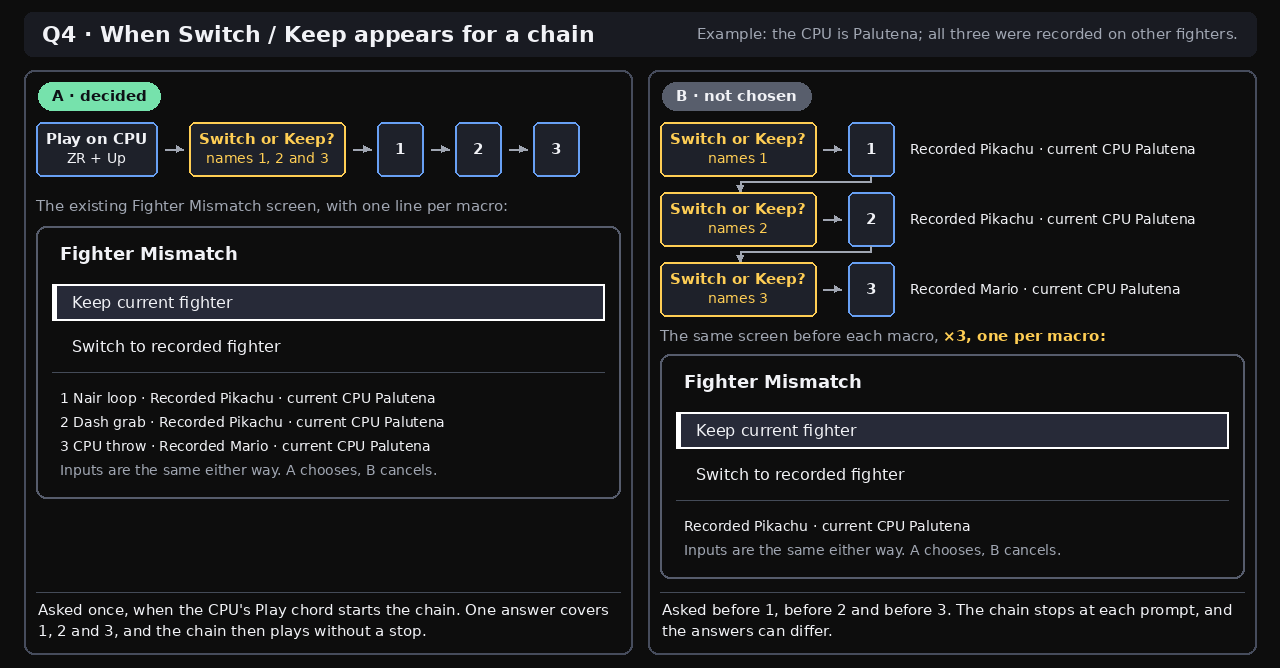
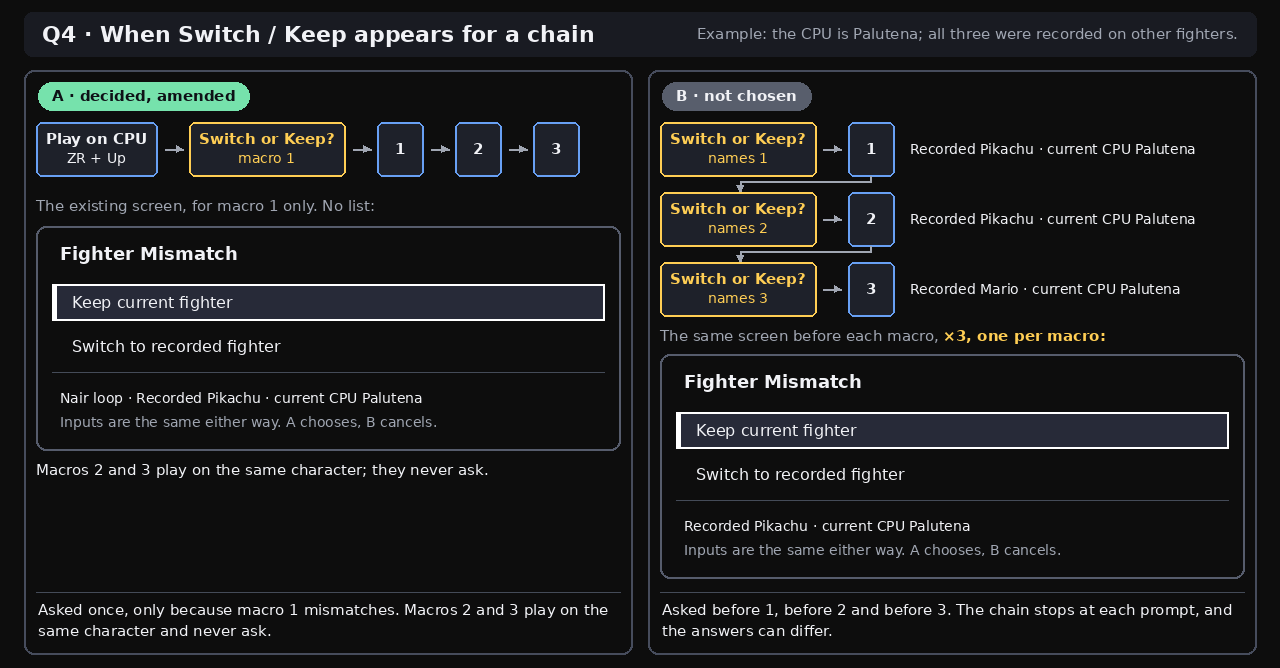
DECISIONS: RECORDING-REDESIGN revision 8.2, the operator's answers: a different move drops, R empties, Switch for macro 1 only, auto-load warps

diff --git a/tools/render_recording_redesign.py b/tools/render_recording_redesign.py
@@ -2076,7 +2076,7 @@ WIDE = 1920
 STACK_CROP = (128, 72, 1153, 649)      # the stacked pop-up's window (POP), its outline included
 
 
-def q_canvas(n, width, content_h, cap_a, cap_b, pad=None, note=None):
+def q_canvas(n, width, content_h, cap_a, cap_b, pad=None, note=None, label_a="A · decided"):
     """The title bar 'QN · question' (and an example line on its right, when given), then two panels: A · decided
     (green chip) and B · not chosen (grey chip). Each panel ends in its caption. Returns the image and the two
     content boxes."""
@@ -2097,7 +2097,7 @@ def q_canvas(n, width, content_h, cap_a, cap_b, pad=None, note=None):
     if note:
         iv.text(d, (width - margin - 18, 34), note, fnt(15), fill=ch.M_GROUP, anchor="rm")
     boxes = []
-    for i, (label, rec) in enumerate((("A · decided", True), ("B · not chosen", False))):
+    for i, (label, rec) in enumerate(((label_a, True), ("B · not chosen", False))):
         x = margin + i * (pw + gap)
         d.rounded_rectangle((x, top, x + pw, top + ph), radius=10, fill=WIN, outline=EDGE52, width=2)
         f = fnt(15, bold=True)
@@ -2384,14 +2384,15 @@ def mismatch_prompt(img, box, info, footer, chosen=0, inset=24):
 
 
 def q4():
-    # Revision 8: the chain is the CPU's active macro and the CPU is Palutena, so all three macros mismatch. The
-    # prompt appears when the CPU's Play chord starts the chain.
+    # Revision 8.2: one prompt, only because macro 1 mismatches. Macros 2 and 3 never ask. B stays the rejected
+    # per-macro prompts.
     img, (a, b) = q_canvas(4, W, 456,
-                           "Asked once, when the CPU's Play chord starts the chain. One answer covers 1, 2 and 3, and "
-                           "the chain then plays without a stop.",
+                           "Asked once, only because macro 1 mismatches. Macros 2 and 3 play on the same character and "
+                           "never ask.",
                            "Asked before 1, before 2 and before 3. The chain stops at each prompt, and the answers can "
                            "differ.",
-                           pad=12, note="Example: the CPU is Palutena; all three were recorded on other fighters.")
+                           pad=12, note="Example: the CPU is Palutena; all three were recorded on other fighters.",
+                           label_a="A · decided, amended")
     ask = lambda s: ("Switch or Keep?\n" + s, "save", "ask")
     arr = ("", "arrow", "")
     num = lambda n: (str(n), "macro", "")
@@ -2399,15 +2400,16 @@ def q4():
     footer = "Inputs are the same either way. A chooses, B cancels."
     lines = ["Recorded Pikachu · current CPU Palutena", "Recorded Pikachu · current CPU Palutena",
              "Recorded Mario · current CPU Palutena"]
-    names = ["Nair loop", "Dash grab", "CPU throw"]
     x0, y0, x1, _ = a
-    seq52(img, x0, y0, [("Play on CPU\nZR + Up", "macro", ""), arr, ask("names 1, 2 and 3"), arr, num(1), arr,
+    seq52(img, x0, y0, [("Play on CPU\nZR + Up", "macro", ""), arr, ask("macro 1"), arr, num(1), arr,
                         num(2), arr, num(3)], **sq)
     d = ImageDraw.Draw(img)
-    iv.text(d, (x0, y0 + 84), "The existing Fighter Mismatch screen, with one line per macro:", fnt(15),
+    iv.text(d, (x0, y0 + 84), "The existing screen, for macro 1 only. No list:", fnt(15),
             fill=ch.M_GROUP, anchor="lm")
-    mismatch_prompt(img, (x0, y0 + 104, x1, y0 + 376),
-                    ["%d %s · %s" % (i + 1, names[i], lines[i]) for i in range(3)], [footer])
+    mismatch_prompt(img, (x0, y0 + 104, x1, y0 + 328),
+                    ["Nair loop · Recorded Pikachu · current CPU Palutena"], [footer])
+    iv.text(d, (x0, y0 + 348), "Macros 2 and 3 play on the same character; they never ask.", fnt(15),
+            fill=ch.M_TEXT, anchor="lm")
     # B: a prompt before each macro, each with its own line; then the one screen, drawn once.
     x0, y0, x1, _ = b
     step = 70

diff --git a/docs/decisions/RECORDING-REDESIGN.md b/docs/decisions/RECORDING-REDESIGN.md
@@ -1,4 +1,4 @@
-# Recording redesign — revision 8.1
+# Recording redesign — revision 8.2
 
 Revision 7 records the operator's answers to every question (2026-11-06): pins are dropped, the hot five are the most recently used, and Q8 drills combos without requiring them to be true. This is the implementation spec.
 
@@ -10,6 +10,8 @@ Revision 8 applies the operator's answers of 2026-11-06. A save state only warps
 
 Revision 8.1 calls a connection between files a connection. The combo helper still says link for its hits, and the combo's panel lists each one with its two moves and whether it was recorded TRUE. The operator signed off: "yes have grok do both and then we are green to implement".
 
+Revision 8.2 records the operator's answers to the implementation questions. A different move does not count. R removes the last number, so a chain or a sequence may be empty. Switch / Keep for a chain is asked only for macro 1. Auto-load on death only warps to the bound save. The operator: "1. No. 2. agreed. 3. this should only apply to the first macro. if it's the second macro then it just keeps the same character. 4. agreed".
+
 Phase 1 screens. Nothing here is built. The pop-up sits on a real Training frame, `artifacts/phase23/overlay-investigation/frames/fix-tr-training.png` (Steve and Villager on Battlefield). The menu pictures are redrawn on the real rc.1 Recording page (`eden-runs/tr-p23-docs-capture-03`). Names and lengths are examples, and every picture uses the same example files. The first picture shows them.
 
 Every question is decided, and the pictures use the decided answers. Each question keeps its A | B picture next to the picture it concerns, for the record.
@@ -18,10 +20,10 @@ Every question is decided, and the pictures use the decided answers. Each questi
 
 | Q | Question | Answer | See |
 | --- | --- | --- | --- |
-| 1 | How you number a chain or a sequence | A: name tiles; A gives the next number, R takes it off, as in Character Cycles | [Q1](#q1-how-you-number-a-chain-or-a-sequence-decided-a) |
+| 1 | How you number a chain or a sequence | A: name tiles; A gives the next number, R takes it off, including the last, so the list may be empty | [Q1](#q1-how-you-number-a-chain-or-a-sequence-decided-a) |
 | 2 | Which role plays a chain | Decided: the role it is set active for, with that role's Play chord | [Q2](#q2-which-role-plays-a-chain-decided) |
 | 3 | What loop does with a chain | A: the whole chain repeats as one unit, and no pass warps back | [Q3](#q3-what-loop-does-with-a-chain-decided-a) |
-| 4 | When Switch / Keep appears for a chain | A: once, when its Play chord starts the chain, for every mismatched macro | [Q4](#q4-when-switch-keep-appears-for-a-chain-decided-a) |
+| 4 | When Switch / Keep appears for a chain | A, amended: once, when its Play chord starts the chain, and only for macro 1 | [Q4](#q4-when-switch-keep-appears-for-a-chain-decided-a) |
 | 5 | How the two lists sit in the Combos & Sequences tab | A: sequences on top, combos below, each with its own scroll | [Q5](#q5-how-the-two-lists-sit-in-the-combos-sequences-tab-decided-a) |
 | 6 | Hot sequences | A: five hot, the most recently used first | [Q6](#q6-hot-sequences-decided-a) |
 | 7 | What the sequence file stores | A: a reference to each combo file, in order | [Q7](#q7-what-the-sequence-file-stores-decided-a) |
@@ -59,7 +61,7 @@ Every connection is a file id, so renaming either end keeps it.
 - **White border and bar: the cursor.** A acts on this row. It is a different mark from the green fill, so the two never look alike.
 - **Thin green outline: the hot set.** At most five per kind: the five most recently used, the most recent first. Used means selected (bound or set active), played, drilled or recorded.
 - **Under the hairline, dimmer:** the rest of the library, on the card.
-- **Red number, at the row's left edge:** its place in the chain or the sequence under the cursor, the badge Character Cycles uses. With the cursor on a macro, every chain that plays it wears the macro's number. It never sits next to the chain mark or the floppy chip. In the picker, A adds the next number. R removes one, and the later numbers close up; A on a tile that already has a number does nothing.
+- **Red number, at the row's left edge:** its place in the chain or the sequence under the cursor, the badge Character Cycles uses. With the cursor on a macro, every chain that plays it wears the macro's number. It never sits next to the chain mark or the floppy chip. In the picker, A adds the next number. R removes one, including the last, and the later numbers close up; A on a tile that already has a number does nothing. A chain or a sequence may be empty. An empty chain plays nothing, and an empty sequence drills nothing, with no new sentence.
 - **Chain mark and count:** a chain, and how many macros it plays. Only a MACROS row has it.
 - **Orange floppy chip: the save state this macro starts at.** It is Material Symbols `save`. It sits before the start save's name on a macro or chain row, on a save row's "start save" tag, on the Start save row of a macro's and a chain's own screen, and in the Connections panel's "starts from" line. It is grey when the Start save switch is Off. The same orange floppy marks the SAVE STATES section header; the other headers keep their square.
 - **Gold outline** in the step-by-step strips only: a mockup mark for "new". It is not part of the product.
@@ -182,17 +184,17 @@ Operator, 2026-11-06.
 
 ![Switch or Keep](RECORDING-REDESIGN-r5-switch-keep.png)
 
-*The existing Fighter Mismatch screen. This frame is Steve and Villager, so the prompt names Villager, the CPU on screen. The operator's example is the same screen for a Pikachu macro practised on Palutena. Asked once for the whole chain. Nothing is hidden or refused.*
+*The existing Fighter Mismatch screen. This frame is Steve and Villager, so the prompt names Villager, the CPU on screen. The operator's example is the same screen for a Pikachu macro practised on Palutena. Asked once, for the chain's first macro. Nothing is hidden or refused.*
 
 ### Q4 · When Switch / Keep appears for a chain — decided: A
 
-One Fighter Mismatch prompt appears once, before the chain starts, when its role's Play chord starts it. Load never starts a chain, so Load never asks. The prompt lists every macro recorded on a different fighter, and your answer (Switch or Keep) covers the whole chain, so playback is never interrupted. Keep plays the inputs on the fighter you have now.
+One Fighter Mismatch prompt appears once, before the chain starts, when its role's Play chord starts it, and only if macro 1 was recorded on a different fighter. It is the existing single-macro prompt. Switch changes to macro 1's recorded fighter. Load never starts a chain, so Load never asks. Macros 2, 3 and later never ask and never switch. They play on the same character. The chain's prompt has no list of macros and no new text. Keep plays the inputs on the fighter you have now.
 
-Operator, 2026-11-06.
+Operator, 2026-11-06. Amended the same day. The primary asked: "Switch / Keep when a chain mixes fighters. The prompt has a single "Switch to recorded fighter" button. Which fighter should Switch pick?" The operator: "this should only apply to the first macro. if it's the second macro then it just keeps the same character".
 
-Option A's list of macros, one line each, is the only new text in the prompt. The picture's example: the CPU's Play chord (ZR + Up) starts the chain, the CPU is Palutena, and all three macros were recorded on other fighters.
+The picture's example: the CPU's Play chord (ZR + Up) starts the chain, the CPU is Palutena, and macro 1, Nair loop, was recorded on Pikachu. Macros 2 and 3 play on the same character; they never ask.
 
-![Q4, A (decided) and B (not chosen)](RECORDING-REDESIGN-q4-ab.png)
+![Q4, A (decided, amended) and B (not chosen)](RECORDING-REDESIGN-q4-ab.png)
 
 ### Pop-up buttons
 
@@ -271,13 +273,15 @@ Each strip is three steps in the menu's own style. The panels are drawn at full 
 
 ![Flow: make a chain](RECORDING-REDESIGN-r8-flow-chain.png)
 
-*Recording › Save states & Macros: + New chain is the last row under MACROS, as + New sequence is under SEQUENCES. The picker numbers Nair loop, Dash grab and CPU throw with the same buttons as Character Cycles: A adds the next number, R removes one, and B is done; the Switch keyboard then names it. The new row, Corner pressure (gold: new), shows the chain mark with 3 and the floppy chip with Nair loop · start, its macro 1's start save. Its Connections panel lists 1 → 2 → 3. Once it is set active for the CPU, on its own screen or with A in the pop-up's CPU view, the CPU's Play chord plays it.*
+*Recording › Save states & Macros: + New chain is the last row under MACROS, as + New sequence is under SEQUENCES. The picker numbers Nair loop, Dash grab and CPU throw with the same buttons as Character Cycles, except that R also removes the last number: A adds the next number, R removes one, and B is done; the Switch keyboard then names it. The new row, Corner pressure (gold: new), shows the chain mark with 3 and the floppy chip with Nair loop · start, its macro 1's start save. Its Connections panel lists 1 → 2 → 3. Once it is set active for the CPU, on its own screen or with A in the pop-up's CPU view, the CPU's Play chord plays it.*
 
 ### Q1 · How you number a chain or a sequence — decided: A
 
 Every recording in the library is a tile. A chain is not one ([Q13](#q13-can-a-chain-contain-a-chain-decided-a)). A on a tile gives it the next number. R takes a tile's number off, and the later numbers close up. A on a tile that already has a number does nothing, and B is done. It is exactly how Character Cycles orders fighters, so there is nothing new to learn. To change the order, take numbers off and put them back. The same picker numbers a sequence's combos.
 
 Operator, 2026-11-06. Amended the same day, so that R removes, as in Character Cycles: "when it's ambiguous I would keep it consistent. We want to minimize the number of chords and have context determine what they do. So in this case I would have R supercede A if that's more intuitive".
+
+Amended again in revision 8.2. R also removes the last number, so a chain or a sequence may be empty. The picker is Character Cycles' picker, except that it allows an empty list. An empty chain plays nothing, and an empty sequence drills nothing, with no new sentence. The primary asked: "R on the last number in the picker. Character Cycles won't let you remove its last fighter, because a cycle can't be empty. A chain or sequence can be empty (nothing plays), so I'd let R remove the last number too." The operator: "2. agreed".
 
 ![Q1, A (decided) and B (not chosen)](RECORDING-REDESIGN-q1-ab.png)
 
@@ -327,11 +331,11 @@ Operator, 2026-11-06.
 
 The bar is the combo helper's bar with a sequence header and a row for the sequence's combos. TRUE, the current link, and the links still to come use the helper's own marks. Streak and best count only a finished sequence. A drop restarts the sequence at combo 1, with the streak back to 0 and best kept; the Q8 picture shows it.
 
-**Grading, decided ([Q8](#q8-a-drop-and-what-completes-the-sequence-decided)); this changes the existing combo helper.** Today a combo attempt is clean only when every link is TRUE, every press is there, and every press is within the tolerance (`src/model/combo.rs`: `Grade::clean`, `Reason`). Clean no longer needs TRUE, for a combo drilled alone and for a sequence. A step counts when its recorded presses are there, with the same direction, in order and within the tolerance. A step drops on a missing press, a press outside the tolerance, or the exchange ending before the step. The exchange ends 20 frames after the CPU can act again, or on a shielded hit, so the CPU may act in a gap for up to 20 frames and a longer gap is a drop. TRUE stays on the bar as information.
+**Grading, decided ([Q8](#q8-a-drop-and-what-completes-the-sequence-decided)); this changes the existing combo helper.** Today a combo attempt is clean only when every link is TRUE, every press is there, and every press is within the tolerance (`src/model/combo.rs`: `Grade::clean`, `Reason`). Clean no longer needs TRUE, for a combo drilled alone and for a sequence. A step counts when its recorded presses are there, with the same direction, in order and within the tolerance, and the move that comes out is the recorded move. A step drops on a missing press, a press outside the tolerance, a different move, or the exchange ending before the step. The exchange ends 20 frames after the CPU can act again, or on a shielded hit, so the CPU may act in a gap for up to 20 frames and a longer gap is a drop. TRUE stays on the bar as information.
 
 ### Q8 · A drop, and what completes the sequence — decided
 
-A drop sends you back to combo 1 of the sequence, and the streak to 0; best is kept. Neither the sequence nor a combo has to be a true combo: the CPU may be able to act between the combos, or between two hits of one combo. This is for drilling things one after another. A step counts when you press its recorded buttons, with the same direction, in order and within the timing tolerance. A step drops on a missing press, a press outside the tolerance, or the exchange ending before the step. TRUE still shows on the bar, as information. It no longer decides whether a combo or a sequence counts. The exchange ends 20 frames after the CPU can act again, or on a shielded hit (the frame strip's `DROP_MAX`). So the CPU may act in a gap for up to 20 frames, and a longer gap is a drop. The primary asked: "Is that right? In particular: Should single combos also stop needing TRUE? Is a 20-frame allowance for the CPU acting the behaviour you want?" The operator: "that sounds right".
+A drop sends you back to combo 1 of the sequence, and the streak to 0; best is kept. Neither the sequence nor a combo has to be a true combo: the CPU may be able to act between the combos, or between two hits of one combo. This is for drilling things one after another. A step counts when you press its recorded buttons, with the same direction, in order and within the timing tolerance, and the move that comes out is the recorded move. A different move does not count, even when the presses match. A step drops on a missing press, a press outside the tolerance, a different move, or the exchange ending before the step. TRUE still shows on the bar, as information. It no longer decides whether a combo or a sequence counts. The exchange ends 20 frames after the CPU can act again, or on a shielded hit (the frame strip's `DROP_MAX`). So the CPU may act in a gap for up to 20 frames, and a longer gap is a drop. The primary asked: "Is that right? In particular: Should single combos also stop needing TRUE? Is a 20-frame allowance for the CPU acting the behaviour you want?" The operator: "that sounds right". The primary asked: "A different move with the same presses. Today the grader also fails a hit where the move came out different. Should that still count when the buttons, direction and timing are right?" The operator: "1. No."
 
 Operator, 2026-11-06.
 
@@ -353,7 +357,7 @@ Drilling one combo from a sequence's numbered rows uses that combo's own streak 
 - Two tabs under the role toggle: Save states & Macros, and Combos & Sequences. CPU has only the first. The two sections in a tab are stacked and scroll on their own. **Decided.**
 - The recorded fighter is information. The column reads Recorded on. Nothing filters, hides, greys, or refuses by fighter. A mismatch raises Switch / Keep, and Keep plays the inputs on the current fighter. A sequence may mix fighters. **Decided.**
 - Hot memory is one minute resident per hot macro (3,600 frames, 28.8 KiB). Five hot macros are 144 KiB. A longer file still plays; the rest is read in 600-frame windows. The file cap stays 36,000 frames. No recording is refused for length. **Decided.**
-- Loop counts are ∞, 1, 2, 3, 5, 10. X cycles them. The list is the Options row. The loop belongs to the role. **Decided.**
+- Loop counts are ∞, 1, 2, 3, 5, 10. X cycles them. The default is 1, and a loop that is On today becomes ∞. The list is the Options row. The loop belongs to the role. **Decided.**
 - Player 1 and the CPU may play at the same time. A chain does not use that: its macros play one after another. **Decided.**
 - Save states are named files that you bind for Save and Load. There is no slot number and no extra slot shortcut. **Decided.**
 - A chain is an ordered list of macros, numbered 1, 2, 3…, kept in its own file in MACROS. A macro's start save, started by the role's Play chord, replaces the old "play a recording because a state loaded" checklist. Operator, 2026-11-06.
@@ -381,7 +385,7 @@ Drilling one combo from a sequence's numbered rows uses that combo's own streak 
 - Pins are dropped. The hot five of each kind are the five most recently used, the most recent first. Used means selected (bound or set active), played, drilled or recorded. When a sixth is used, the least recently used leaves the outline and stays on the card under the hairline. Y is unused on these screens. Operator, 2026-11-06.
 - Q1, Q3, Q4, Q5, Q6, Q7, Q9, Q11, Q12 and Q13 are A; Q8 is the operator's own answer. Each block above says what it means. Operator, 2026-11-06.
 - When it is ambiguous, keep it consistent: few chords, with context deciding what they do. So the numbered picker (+ New chain, Edit chain, + New sequence, Edit combos) works as Character Cycles does: A gives the next number, R takes a number off and the later numbers close up, A on a numbered tile does nothing, and B is done. Inside the picker, R removes; the role toggle does not apply there, because the picker edits the file, whichever role it is active for. The operator: "when it's ambiguous I would keep it consistent. We want to minimize the number of chords and have context determine what they do. So in this case I would have R supercede A if that's more intuitive". Operator, 2026-11-06.
-- A combo or a sequence counts when its recorded presses are there, with the same direction, in order and within the tolerance. TRUE is shown as information and is no longer a condition, for a combo drilled alone and for a sequence. This changes the existing combo helper (`Grade::clean`). The exchange ends 20 frames after the CPU can act again, or on a shielded hit, so the CPU may act in a gap for up to 20 frames and a longer gap is a drop. Confirmed: 'that sounds right'. Operator, 2026-11-06.
+- A combo or a sequence counts when its recorded presses are there, with the same direction, in order and within the tolerance, and the move that comes out is the recorded move. A different move does not count, even when the presses match, and a different move is a drop. TRUE is shown as information and is no longer a condition, for a combo drilled alone and for a sequence. This changes the existing combo helper (`Grade::clean`). The exchange ends 20 frames after the CPU can act again, or on a shielded hit, so the CPU may act in a gap for up to 20 frames and a longer gap is a drop. Confirmed: 'that sounds right'. Operator, 2026-11-06. The primary asked: "A different move with the same presses. Today the grader also fails a hit where the move came out different. Should that still count when the buttons, direction and timing are right?" The operator: "1. No." Operator, 2026-11-06.
 - On the Recording page, A opens the file's own screen; on a save, Bind to Save / Load is that screen's first row. In the pop-up, A still binds, sets active, or drills. The page footers read "A open". The operator, on the primary's recommendations: "go with your recommendations and redraw them". Operator, 2026-11-06.
 - Make combo does not change the drill. The new combo joins the hot five at the top, because it was recorded, and the current drill stays the drill. "go with your recommendations and redraw them". Operator, 2026-11-06.
 - A macro's own screen, and a chain's, has one Set active row, for the role in view: "On · Player 1" (or "On · CPU" in the CPU view) or "Off". Left / Right turn it On or Off; On makes this file that role's active macro, replacing the one before, and that role's Play chord plays it. "go with your recommendations and redraw them". Operator, 2026-11-06.
@@ -390,6 +394,11 @@ Drilling one combo from a sequence's numbered rows uses that combo's own streak 
 - X cycles the loop on the Recording page too, when the cursor is in MACROS, as in the pop-up. The primary asked: "X on the Recording page: should X cycle the loop when the cursor is in MACROS, as it does in the pop-up?" The operator: "yes". Operator, 2026-11-06.
 - Connections between files are called connections. The combo helper still says link for its hits: L1, "N links", "link 1 of 4". The operator: "yes have grok do both and then we are green to implement". Operator, 2026-11-06.
 - The combo's Connections panel lists each link, its two moves, and whether it was recorded TRUE, for example "L1  aerial → aerial  TRUE". It reads the combo file's own `links`; nothing new is stored. The operator: "yes have grok do both and then we are green to implement". Operator, 2026-11-06.
+- A different move does not count, even when the presses match. A step counts when its recorded presses are there, with the same direction, in order and within the tolerance, and the move that comes out is the recorded move. A different move is a drop. TRUE is still not required. The primary asked: "A different move with the same presses. Today the grader also fails a hit where the move came out different. Should that still count when the buttons, direction and timing are right?" The operator: "1. No." Operator, 2026-11-06.
+- R removes the last number too, so a chain or a sequence may be empty. The picker is Character Cycles' picker, except that it allows an empty list. An empty chain plays nothing, and an empty sequence drills nothing, with no new sentence. The primary asked: "R on the last number in the picker. Character Cycles won't let you remove its last fighter, because a cycle can't be empty. A chain or sequence can be empty (nothing plays), so I'd let R remove the last number too." The operator: "2. agreed". Operator, 2026-11-06.
+- Switch / Keep for a chain is asked only for the chain's first macro. When a chain starts, the Fighter Mismatch prompt appears only if macro 1 was recorded on a different fighter. It is the existing single-macro prompt; Switch changes to macro 1's recorded fighter. Macros 2, 3 and later never ask and never switch. They play on the same character. The chain's prompt has no list of macros and no new text. The primary asked: "Switch / Keep when a chain mixes fighters. The prompt has a single "Switch to recorded fighter" button. Which fighter should Switch pick?" The operator: "this should only apply to the first macro. if it's the second macro then it just keeps the same character". Operator, 2026-11-06.
+- Auto-load on death only warps to the bound save. It does nothing when no save is bound. Mirroring, damage on load and buffs still apply to that warp. The primary asked: "Auto-load on death. Today it can start a recording. Since Load starts nothing, I'd make it only warp to the bound save, and do nothing if no save is bound." The operator: "4. agreed". Operator, 2026-11-06.
+- The primary recommended, and the operator did not object: migration skips empty slots, and the old slots' names use the date the migration runs; the loop's default is 1, and today's loop On becomes ∞; after the bound save is deleted, the next Save creates "Save N" and binds it; the current library selection (`macros/selected.txt`) becomes Player 1's active macro; a single combo's best stays as today. Primary's recommendation, 2026-11-06. No objection from the operator.
 
 ## Each file's screen, and the other rules
 
@@ -420,7 +429,7 @@ These screens and rules come from revision 3, updated to the decisions above.
 | --- | --- |
 | Start save | Its macro 1's start save, "Nair loop · start" ([Q12](#q12-where-a-chain-starts-decided-a)). To change it, reorder the chain or save over that file. The switch is On or Off, with Left and Right; On is the default. On: the Play chord warps there once, then plays 1, 2, 3; a loop never warps back. Off: the chain plays from where the fighters are. If macro 1 has no start save, the chain has none and no switch. |
 | Set active | On · <role> or Off, for the role in view, as on a macro's screen. On makes the chain that role's active macro, replacing the one before; that role's Play chord plays it. |
-| Edit chain | The numbered picker, as in Character Cycles: A gives the next number, R takes one off, B is done. It lists recordings only ([Q13](#q13-can-a-chain-contain-a-chain-decided-a)). |
+| Edit chain | The numbered picker, as in Character Cycles, except that R also removes the last number, so the chain may be empty: A gives the next number, R takes one off, B is done. An empty chain plays nothing, with no new sentence. It lists recordings only ([Q13](#q13-can-a-chain-contain-a-chain-decided-a)). |
 | Rename | Header "Name chain". A new chain that was never renamed is Chain N. Online, the keyboard stays closed. |
 | Make combo | Warp to the chain's start save, play the whole chain once on Player 1 while the frame strip records, and keep the links as a new combo. This file stays. |
 | Delete | Removes the chain file. Its macros stay. |
@@ -435,7 +444,7 @@ A chain has no Crop: it has no frames of its own. A deleted macro leaves a gap t
 
 | Row | What it does |
 | --- | --- |
-| Drill | This becomes the one drill, and a drilled sequence is cleared. An attempt counts when its recorded presses are there, in order and within the tolerance; TRUE is shown as information. |
+| Drill | This becomes the one drill, and a drilled sequence is cleared. An attempt counts when its recorded presses are there, in order and within the tolerance, and the move that comes out is the recorded move. A different move is a drop. TRUE is shown as information. A single combo's best stays as today. |
 | Made from | The macro it was made from, when there is one |
 | Rename | Header "Name combo". Empty OK on a new combo is Combo N. Online, the keyboard stays closed and the name is Combo N. |
 | Crop | First link and last link. A saves a new combo. This file stays. |
@@ -452,7 +461,7 @@ A chain has no Crop: it has no frames of its own. A deleted macro leaves a gap t
 | Bind to Save / Load | "On" or "Off": Left / Right turn it On or Off. On binds this save, and the one bound before is unbound; one save at a time, for both roles. The Save chord writes this file, and the Load chord warps here; Load starts nothing. The bound save is green in both views. |
 | Duplicate | A new save file, a copy of this one. This file stays bound. |
 | Rename | Header "Name save state". A new save that was never renamed is Save N. Online, the keyboard stays closed. |
-| Delete | Removes the file. If it was bound, Save and Load do nothing until another is bound. |
+| Delete | Removes the file. If it was bound, Load does nothing until a save is bound again. The next Save creates "Save N" and binds it. |
 
 The Save chord overwrites the bound file. If nothing is bound yet, Save creates a file named Save N, binds it, and puts it in the hot list. Saving over "Nair loop · start" moves that macro's remembered start, because that is the file the macro points at. It moves the chain Corner pressure's start too, because its macro 1 is Nair loop.
 
@@ -464,9 +473,9 @@ The Save chord overwrites the bound file. If nothing is bound yet, Save creates 
 
 | Row | What it does |
 | --- | --- |
-| Drill sequence | This becomes the one drill. The helper grades the whole sequence: each combo's presses, in order and within the tolerance; TRUE is not required. |
+| Drill sequence | This becomes the one drill. The helper grades the whole sequence: each combo's presses, in order and within the tolerance, and the move that comes out is the recorded move. A different move is a drop. TRUE is not required. |
 | 1, 2… | A drills that combo alone. The sequence file stays. |
-| Edit combos | The numbered picker: A gives the next number, R takes one off |
+| Edit combos | The numbered picker: A gives the next number, R takes one off, including the last, so the sequence may be empty |
 | Rename | Header "Name sequence". A new one that was never renamed is Sequence N. Online, the keyboard stays closed. |
 | Delete | Removes the sequence file. The combo files stay. |
 
@@ -525,12 +534,13 @@ Menu shortcut 1 stays Minus. Open menu stays B + Up. Both Play chords may be on 
 
 ### A chain, on its Play chord
 
-A role's Play chord starts that role's active macro. When it is a chain, the chord warps to the chain's start save once, when its Start save switch is On ([Q12](#q12-where-a-chain-starts-decided-a)). The role then plays the chain's macros in order, from where the fighters are ([Q2](#q2-which-role-plays-a-chain-decided)). The macros' own start saves are not used, whatever their switches say. With a loop count, the chain repeats as one unit, 1, 2, 3, then 1, and no pass warps back ([Q3](#q3-what-loop-does-with-a-chain-decided-a)). A macro recorded on a different fighter raises Switch / Keep, asked once when the chord starts the chain ([Q4](#q4-when-switch-keep-appears-for-a-chain-decided-a)). Keep plays the inputs on the current fighter. The chain file stores its macros' ids in order, and lists recordings only ([Q13](#q13-can-a-chain-contain-a-chain-decided-a)).
+A role's Play chord starts that role's active macro. When it is a chain, the chord warps to the chain's start save once, when its Start save switch is On ([Q12](#q12-where-a-chain-starts-decided-a)). The role then plays the chain's macros in order, from where the fighters are ([Q2](#q2-which-role-plays-a-chain-decided)). The macros' own start saves are not used, whatever their switches say. With a loop count, the chain repeats as one unit, 1, 2, 3, then 1, and no pass warps back ([Q3](#q3-what-loop-does-with-a-chain-decided-a)). Switch / Keep is asked only when macro 1 was recorded on a different fighter, once, when the chord starts the chain ([Q4](#q4-when-switch-keep-appears-for-a-chain-decided-a)). Switch changes to macro 1's recorded fighter. Macros 2 and later keep the same character and never ask. Keep plays the inputs on the current fighter. The chain file stores its macros' ids in order, and lists recordings only ([Q13](#q13-can-a-chain-contain-a-chain-decided-a)).
 
 ### Migration
 
-- Today's five recording slots become named macros, "Slot 1 (2026-11-05)" through "Slot 5". They start as the hot five. They have no start save, so they have no Start save switch, and they play from where the fighters are.
-- Today's five save slots are one slot index for both fighters. Each index becomes one file, "Slot N (2026-11-05)", holding both fighters. They start hot. The slot the Save and Load chords were using becomes the bound save. No save starts with a chain, because a save has none.
+- Migration skips empty slots. A recording slot that holds a recording becomes a named macro, "Slot N" plus the date the migration runs. The ones that remain start as the hot five. They have no start save, so they have no Start save switch, and they play from where the fighters are.
+- Today's save slots are one slot index for both fighters. Migration skips an empty index. Each index that holds a save becomes one file, "Slot N" plus the date the migration runs, holding both fighters. They start hot. The slot the Save and Load chords were using becomes the bound save. No save starts with a chain, because a save has none.
+- The current library selection (`macros/selected.txt`) becomes Player 1's active macro.
 - Today's "play a recording when a state loads" checklist leaves. A macro's start save does that job, started by the role's Play chord. Nothing is turned into a chain automatically.
 - Sequences and chains are new. There is nothing to migrate.
 - The old Input Record and Input Playback chords become the new Record and Play on CPU chords. One notice, once: "Record, Play on Player 1, Play on CPU, and the recording pop-up replace Input Record and Input Playback."
@@ -555,13 +565,13 @@ A role's Play chord starts that role's active macro. When it is a chain, the cho
 - Per-slot playback chords. They are not added.
 - A single chained macro. A chain is a macro made of macros, in MACROS.
 
-The Saves page keeps the on/off switch for the chords, mirroring, auto-load on death, damage on load, buffs, and the setup library. Setups stay a separate library from save states.
+The Saves page keeps the on/off switch for the chords, mirroring, auto-load on death, damage on load, buffs, and the setup library. Setups stay a separate library from save states. Auto-load on death only warps to the bound save. It does nothing when no save is bound. Mirroring, damage on load and buffs still apply to that warp. The primary asked: "Auto-load on death. Today it can start a recording. Since Load starts nothing, I'd make it only warp to the bound save, and do nothing if no save is bound." The operator: "4. agreed". Operator, 2026-11-06.
 
 ![Respawn on platform, under Stages](RECORDING-REDESIGN-respawn.png)
 
 *Respawn on platform is under Fighters & Stages › Stages. The setting id stays `respawn_invincibility`.*
 
-An empty recording still uses the existing "Recording was empty". Fighter mismatch keeps the Switch / Keep prompt, for macros, for combos, and once at the start of a chain. Lobby practice matches Training.
+An empty recording still uses the existing "Recording was empty". Fighter mismatch keeps the Switch / Keep prompt, for macros, for combos, and, for a chain, only when its first macro was recorded on a different fighter. Lobby practice matches Training.
 
 Only a deleted start save shows the approved sentence. A macro that never had a start save, or whose Start save switch is Off, plays from where the fighters are without it. Phase 2 adds these rows to `docs/RESTRICTIONS.md`, and marks the string `// restriction: macro-start-save-missing` and the chain picker's filter `// restriction: chain-recordings-only`:
 
@@ -579,6 +589,7 @@ No other new sentence is added. A long chain, a missing combo, an empty chain, a
 - Renderer: `tools/render_recording_redesign.py`. Its default run draws every picture this doc uses except revision 3's: the `r8-` pictures, the question pictures and `r5-switch-keep`. With `--q52` it draws only the question pictures. With `--r3` it draws the revision 3 pictures the repo keeps.
 - Icons: Google Material Symbols (`repeat`, `save`, `link`, `format_list_numbered`), https://github.com/google/material-design-icons, Apache License 2.0. The copies and the licence are in [icons/](icons/). The renderer fills their path data with Pillow at 8× and downsamples. The colours, the dot, and the count badge are added by the renderer. `save` is new in revision 8; `link` stays for `q7-ab`, where it marks a sequence's reference to a combo file.
 - Changed in revision 8.1: the panel header, the diagram, the strips and Q7's reference line say connection. Nair loop combo's four links are aerial → aerial, each recorded TRUE, on its Connections panel and on the crop screen.
+- Changed in revision 8.2: `q4-ab`'s A side is one prompt for macro 1, Nair loop recorded on Pikachu with the CPU on Palutena, labelled "A · decided, amended", with the note "Macros 2 and 3 play on the same character; they never ask." The B side is unchanged. `r5-switch-keep` stays byte for byte; its caption says the prompt is asked once, for the chain's first macro.
 - Revision 8 redrew every picture with a save row, a start-save mark, a chain, or the old word, under `r8-` names. Renamed with `git mv`: `r4-links`, `r4-legend`, `r4-loop`, `r4-flow-record`, `r4-flow-chain` (now Make a chain), `r4-flow-make-combo` and `r4-flow-drill` to the same names with `r8-`; `r4-flow-conversion` to `r8-flow-sequence`, `r4-conversion-bar` to `r8-sequence-bar`, `r4-save-actions` and `r4-combo-actions` to `r8-`, `r4-conversion-actions` to `r8-sequence-actions`, `r6-macro-actions`, `r6-page-saves-macros`, `r6-page-combos`, `r6-popup-save`, `r6-popup-scrolled`, `r6-popup-macro`, `r6-popup-combo` and `r6-popup-cpu` to `r8-`, `r6-popup-conversion` to `r8-popup-sequence`, and `r7-page-cpu` to `r8-page-cpu`. New: `r8-chain-actions` (also Q2's picture), `q12-ab` and `q13-ab`. Redrawn under their names: `q1-ab`, `q3-ab`, `q4-ab`, `q5-ab`, `q6-ab`, `q7-ab`, `q8-decided`, `q9-ab`, `q11-ab` and `crop`. Removed: revision 3's `save-where`, which no page used and which showed the revision 3 model. Unchanged, byte for byte: `r5-switch-keep`, `respawn`, `shortcuts`, `keyboard`, `crop-macro` and `combo-from-macro`.
 - Changed in revision 7.2: strips 2 to 5 (no Y in the pickers; the stacked Combos & Conversions tab with CONVERSIONS on top; Make combo keeps the drill; Nair loop combo stops being the drill), the three Recording page pictures ("A open"), the macro's own screen (one Set active row), the scrolled pop-up (seven files, scrolled to the end), and revision 3's `keyboard`, `crop` and `crop-macro` (the current groups; the crop's kept range is a bracket; the keyboard's background no longer shows a settings page's hints). With the Q1 amendment: `q1-ab`'s A side and the pickers in strips 2 and 4 read "A add number", "R remove". After review: the strips are reordered so that Make combo (now strip 3) comes before Make a conversion (now strip 4), which uses Nair loop combo; the file names stay. Strip 2's first panel is the pop-up, with its footer; the crop screens and the keyboard's background are file screens, full width with a breadcrumb. The five strips read as one story: each starts where the one before it ends (Corner pressure gets its chain in strip 2, SAVE STATES holds eight files after strip 1, and Ryu BnB is the drill until strip 5 drills Corner to kill). From the sweep: the loop mark's note names the SAVE STATES, CONVERSIONS and COMBOS section headers, and strip 5's Links panel keeps its Drilled line. The revision 3 pictures are drawn by `--r3`.
 - New in revision 7.1: `RECORDING-REDESIGN-r7-page-cpu.png`, the Recording page's CPU view. Changed in revision 7.1: the pop-ups and pages with a bound save or an active macro, the legend, strips 1 and 2, the link diagram, and the save's own screen (one role per view, no role chips, Bind to Save / Load On · CPU). Removed in revision 7.1: `RECORDING-REDESIGN-r7-proposed.png`, with its section.
@@ -616,3 +627,4 @@ No other new sentence is added. A long chain, a missing combo, an empty chain, a
   X cycles the loop on the Recording page too, when the cursor is in MACROS, as in the pop-up; the primary asked "X on the Recording page: should X cycle the loop when the cursor is in MACROS, as it does in the pop-up?" and the operator answered "yes".
   Q8's reading was confirmed, and the operator said "that sounds right".
 - **Revision 8.1.** The operator, 2026-11-06: "yes have grok do both and then we are green to implement". Connections between files are called connections. The combo helper still says link for its hits, and the combo's panel lists each link with its two moves and TRUE. This is the operator's sign-off of the redesign.
+- **Revision 8.2.** The operator, 2026-11-06, on the implementation questions: "1. No. 2. agreed. 3. this should only apply to the first macro. if it's the second macro then it just keeps the same character. 4. agreed". A different move does not count. R removes the last number, so a chain or a sequence may be empty. Switch / Keep for a chain is asked only for macro 1. Auto-load on death only warps to the bound save. The primary's five recommendations stand, with no objection: migration skips empty slots and names old slots with the date the migration runs; the loop's default is 1 and today's loop On becomes ∞; after the bound save is deleted, the next Save creates "Save N" and binds it; `macros/selected.txt` becomes Player 1's active macro; a single combo's best stays as today.

diff --git a/docs/DECISIONS.md b/docs/DECISIONS.md
@@ -1378,6 +1378,13 @@ Earlier the same day, on pins: "Are pins even helping with anything? they seem k
 - The combo's Connections panel lists each link, its two moves, and whether it was recorded TRUE, for example "L1  aerial → aerial  TRUE". It reads the combo file's own `links`; nothing new is stored. Nair loop combo's four links are aerial → aerial, all recorded TRUE.
 - The operator's sign-off of the redesign, given with this revision: "then we are green to implement".
 
+**Decided in revision 8.2** (operator 2026-11-06: "1. No. 2. agreed. 3. this should only apply to the first macro. if it's the second macro then it just keeps the same character. 4. agreed"):
+- A different move does not count, even when the presses match. The move that comes out must be the recorded move. A different move is a drop. TRUE is still not required. The operator: "1. No."
+- R removes the last number too, so a chain or a sequence may be empty. The picker is Character Cycles' picker, except that it allows an empty list. An empty chain plays nothing, and an empty sequence drills nothing, with no new sentence. The operator: "2. agreed".
+- Q4 is amended. Switch / Keep is asked only for the chain's first macro. The prompt appears only if macro 1 was recorded on a different fighter, and it is the existing single-macro prompt; Switch changes to macro 1's recorded fighter. Macros 2, 3 and later never ask and never switch. They play on the same character. The chain's prompt has no list of macros and no new text. The operator: "this should only apply to the first macro. if it's the second macro then it just keeps the same character".
+- Auto-load on death only warps to the bound save. It does nothing when no save is bound. Mirroring, damage on load and buffs still apply to that warp. The operator: "4. agreed".
+- The primary's recommendations, to which the operator did not object: migration skips empty slots, and the old slots' names use the date the migration runs; the loop's default is 1, and today's loop On becomes ∞; after the bound save is deleted, the next Save creates "Save N" and binds it; the current library selection (`macros/selected.txt`) becomes Player 1's active macro; a single combo's best stays as today.
+
 **Next:** implementation from `p23/rc5-candidate` `384e41f`; the operator signed off ('…green to implement'), 2026-11-06.
 
 ### INTRO-ONCE · The Training intro notices — ordered (2026-11-05)
